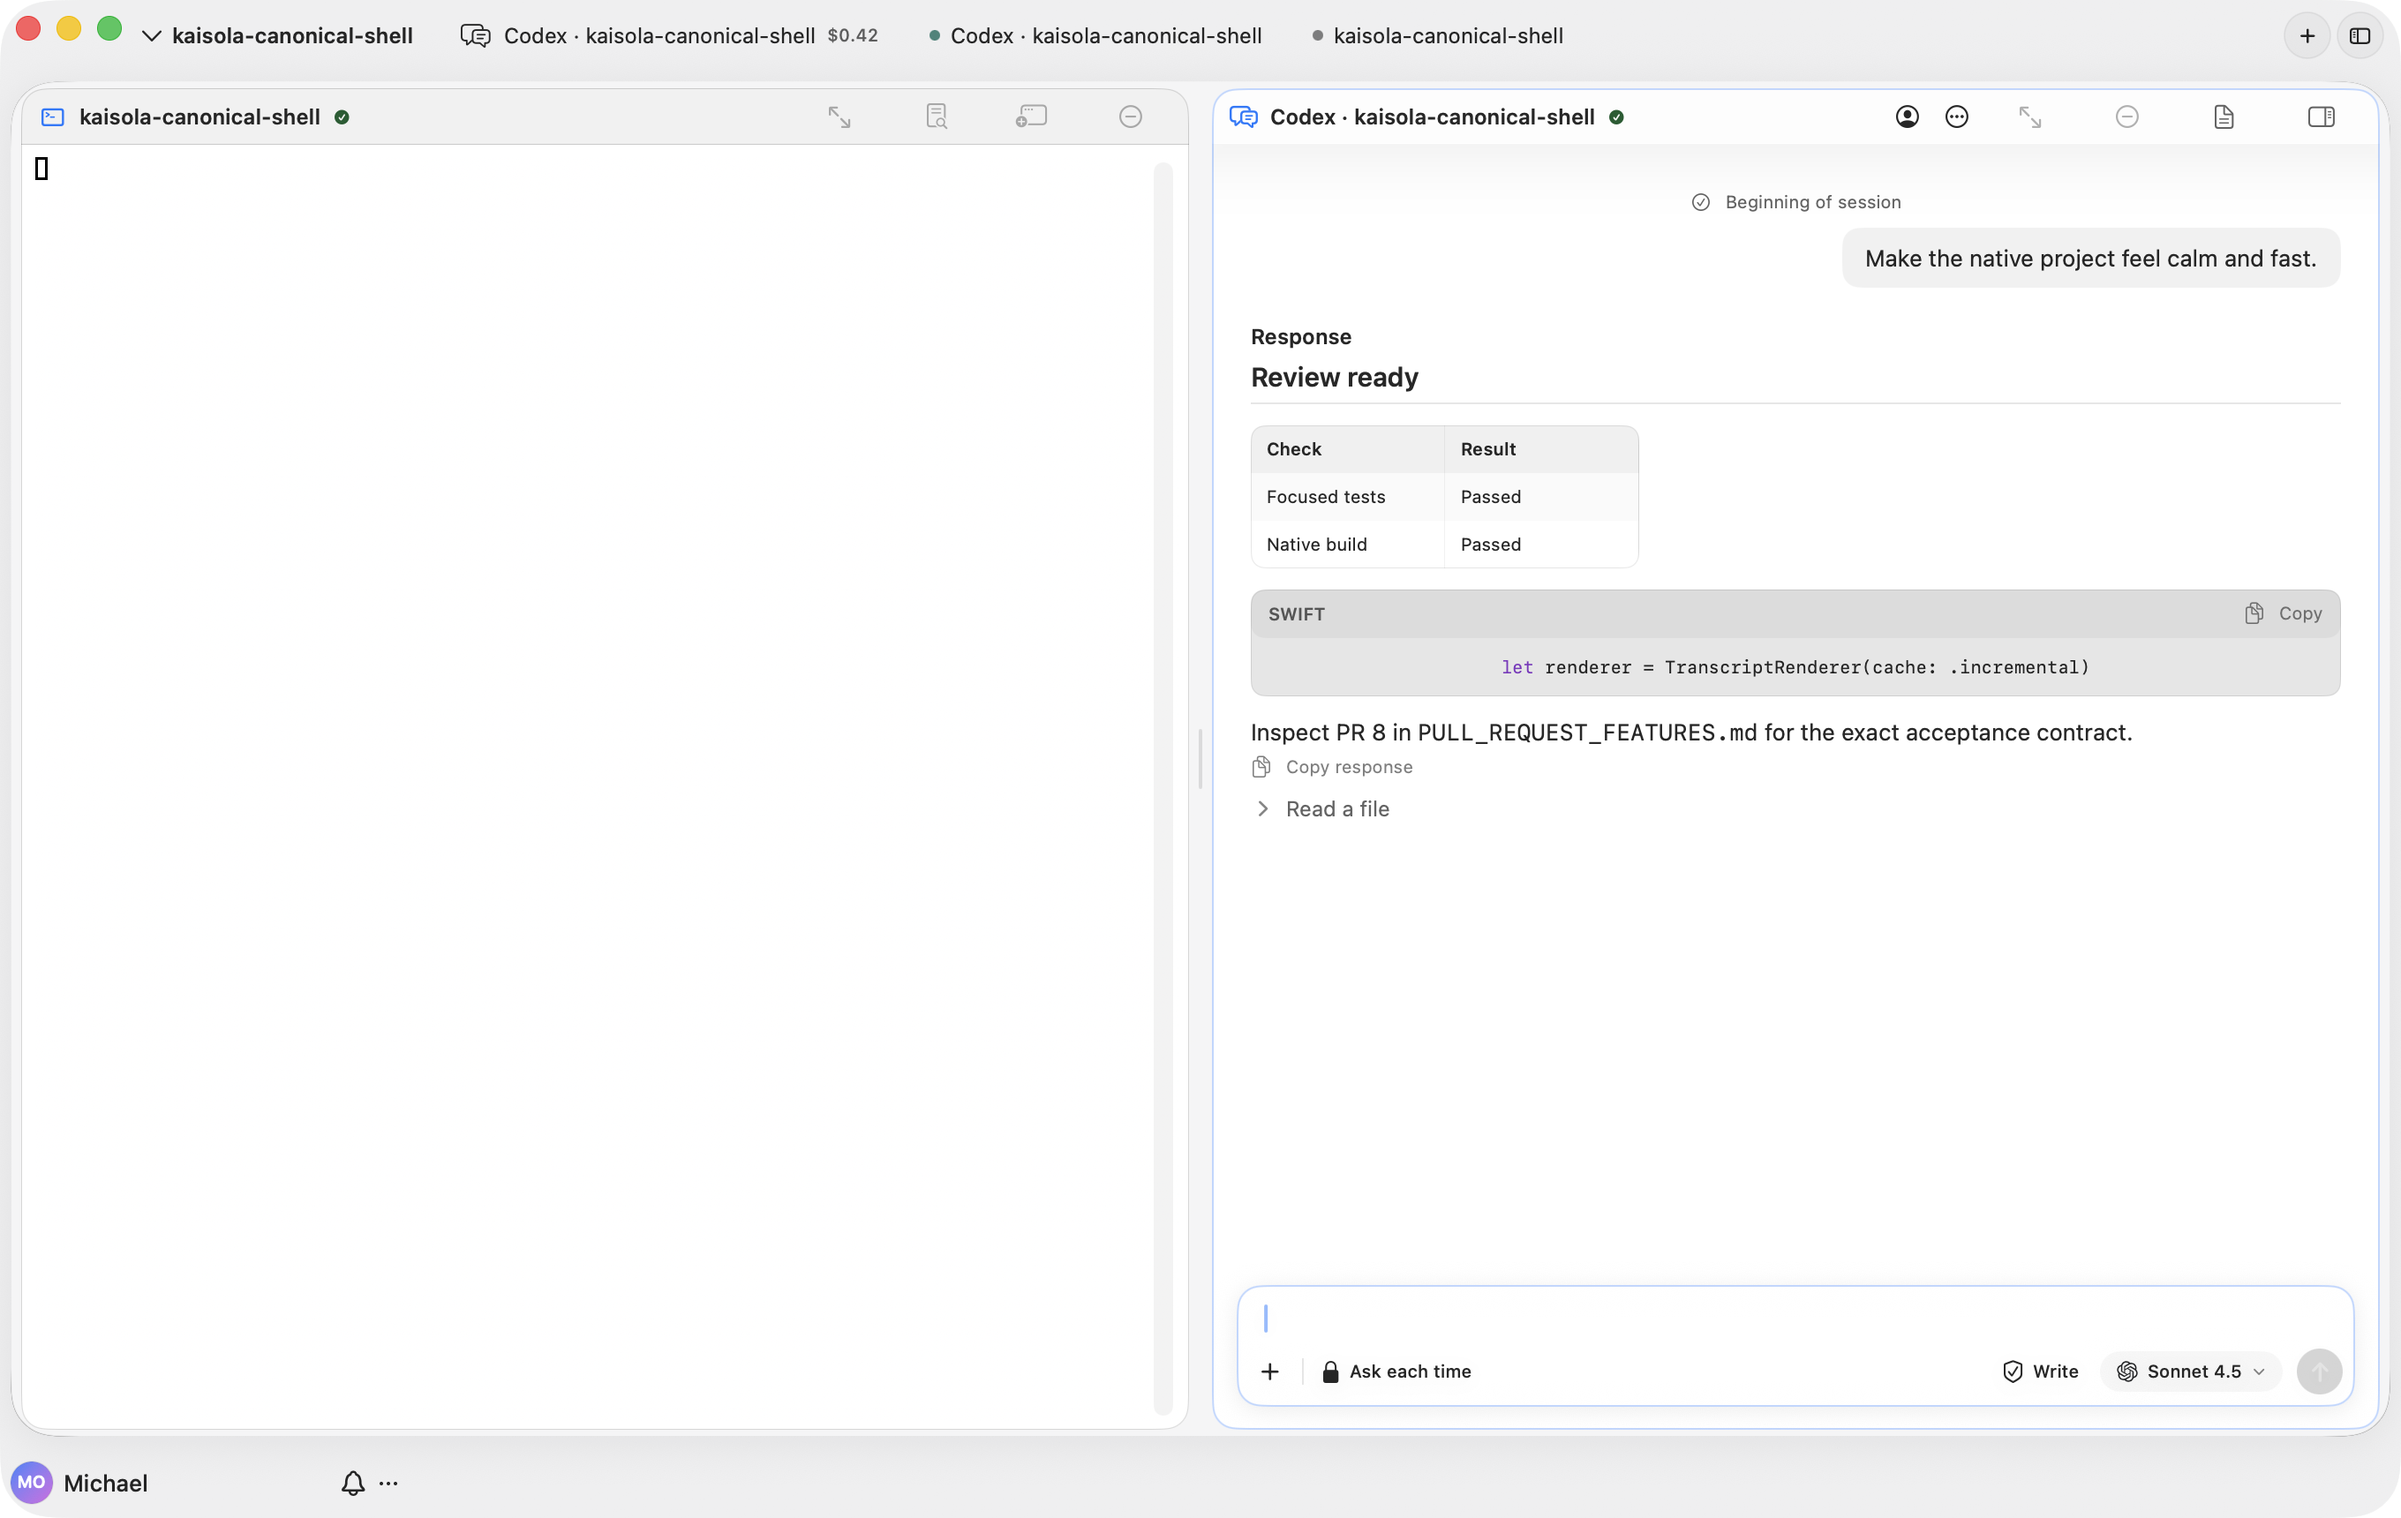
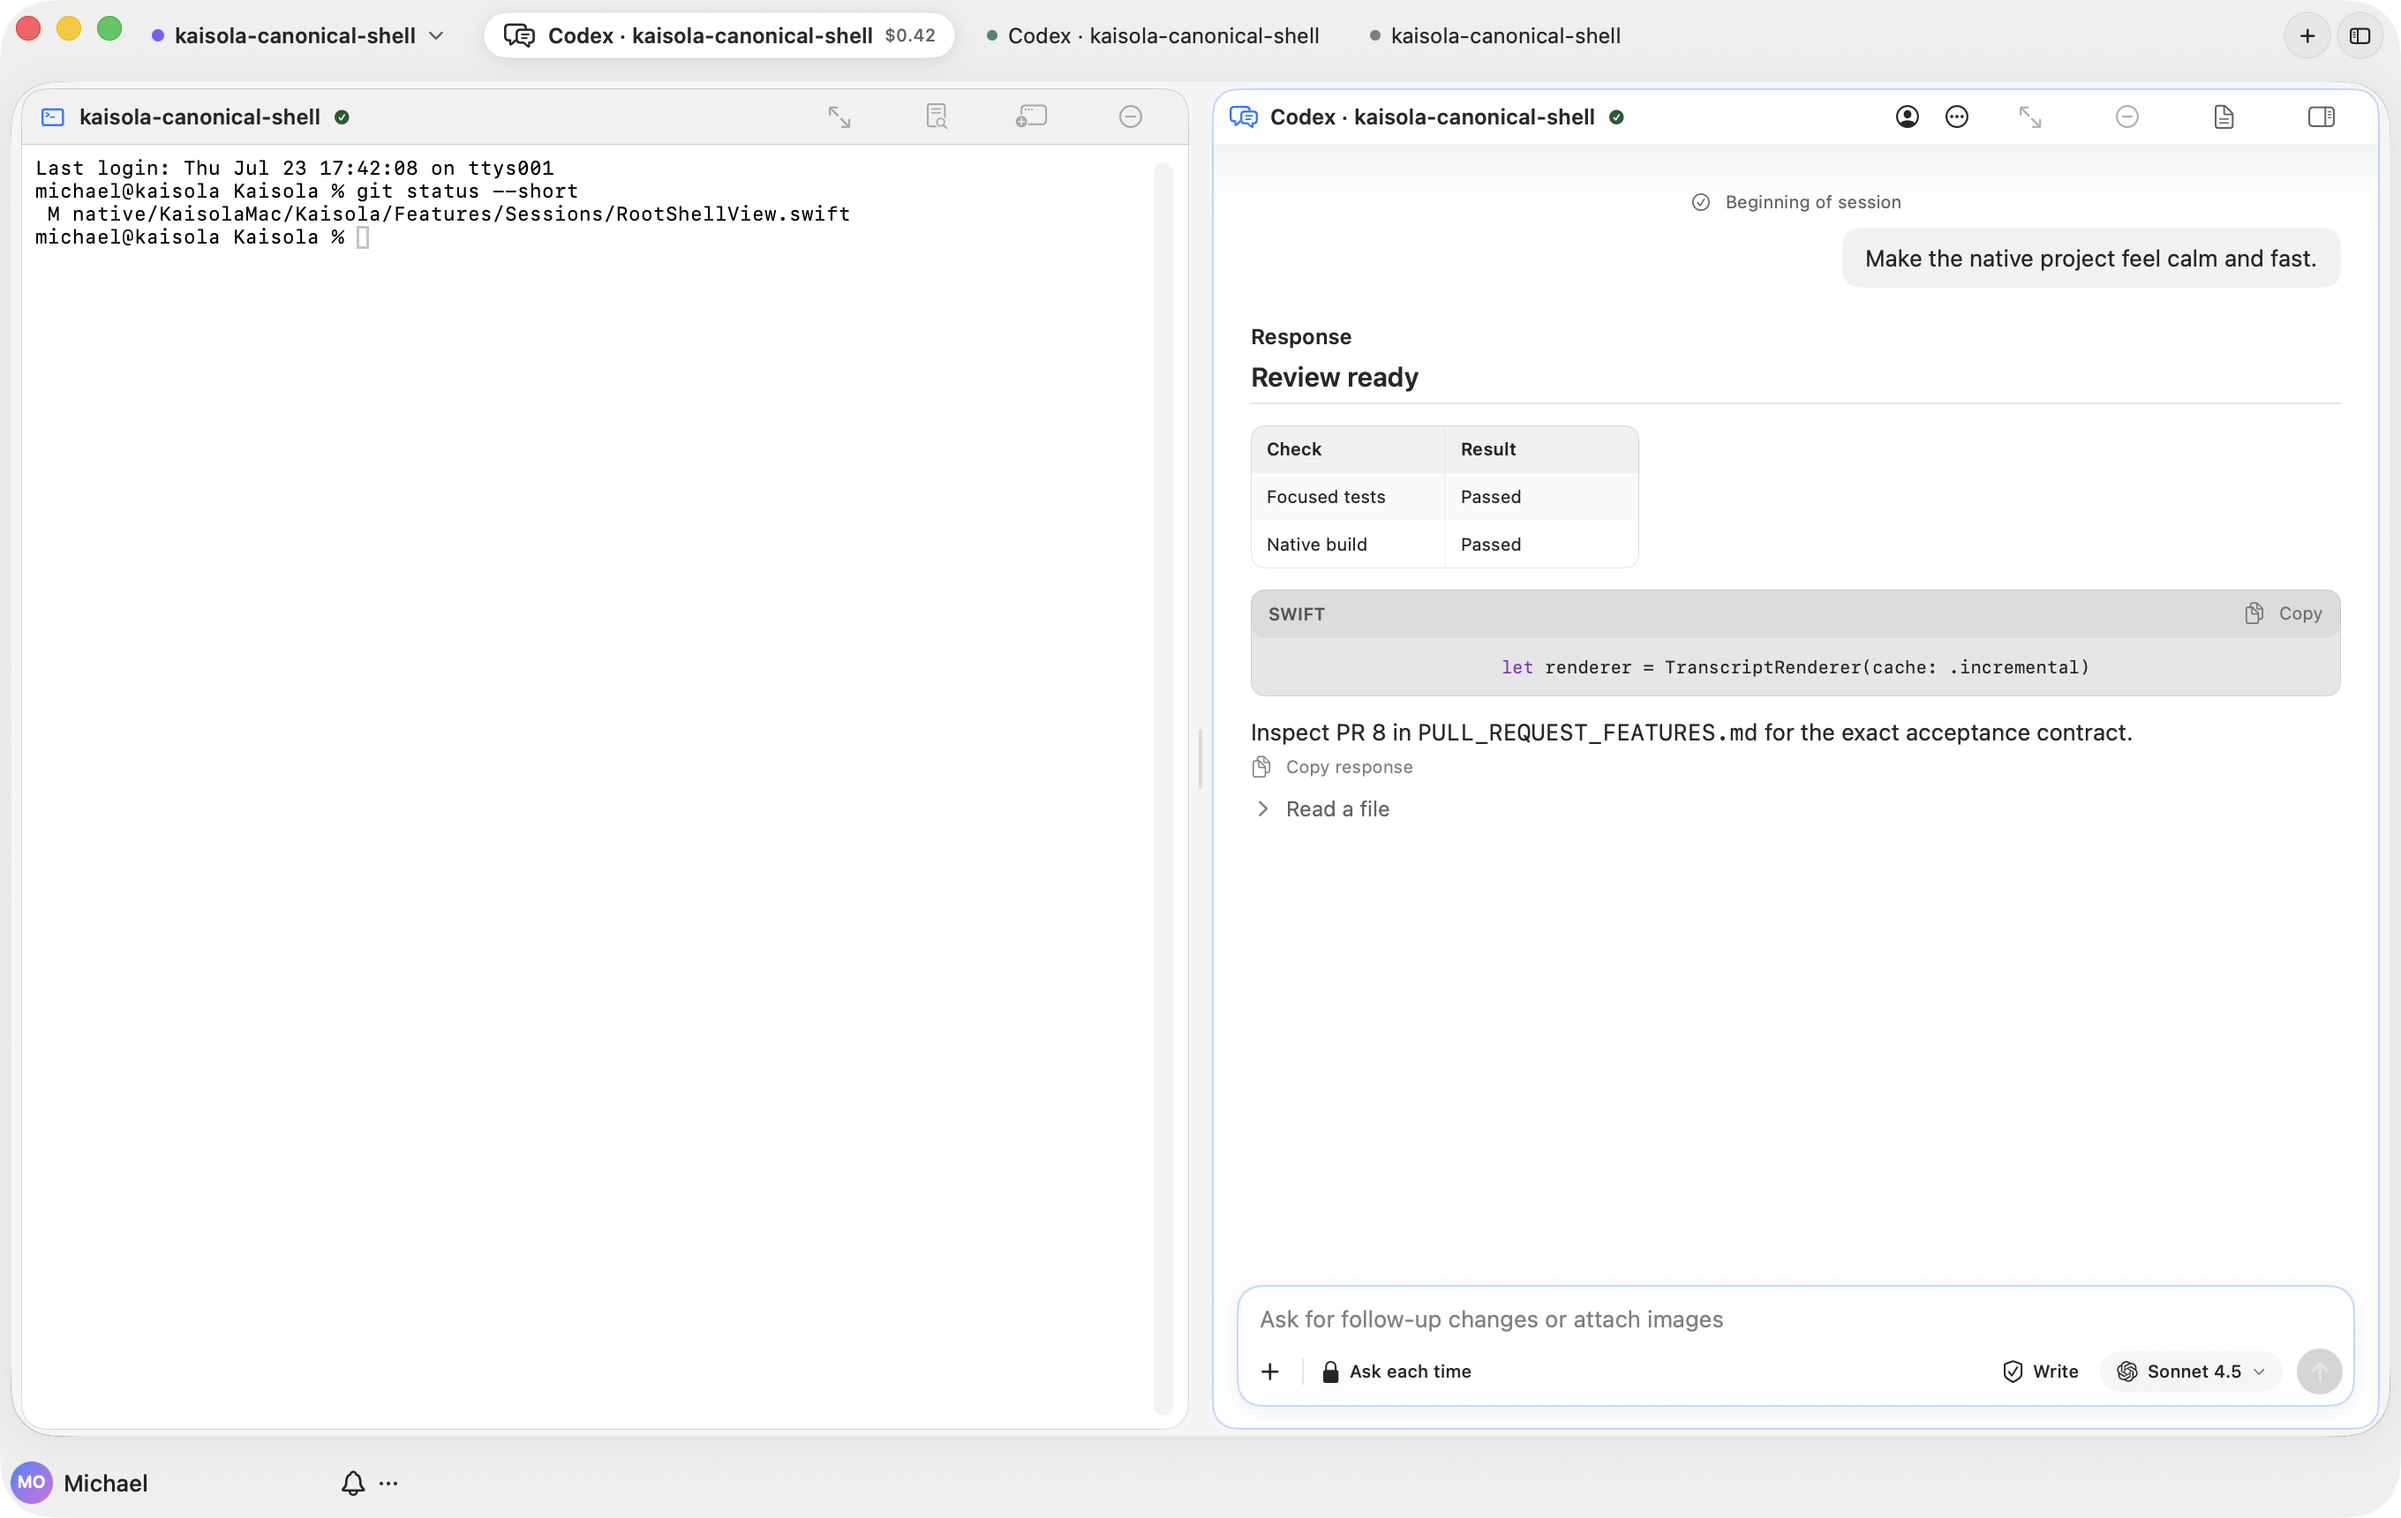
Fix the phantom selected-draft gate and land the preview renders
Two capture rounds exposed real bugs the old strip's resting fills had
been hiding:
- With no draft, 'draft?.id == selectedDraftID' is nil == nil, so a
  phantom selected draft suppressed every real tab's selected state.
- A translucent active-tab plate let the card's own drop shadow bleed
  through from behind, rendering the white card as a grey wash darker
  than the bar. The card now uses the composer's opaque plates (white /
  #2C2C2E) resolved by drawing appearance.

preview-renders/ holds the 12-shot confirmation matrix: top-bar wide
and narrow (pills and capsules, light and dark) and the left-tree card
sidebar + card Files rail + chat (both variants, light and dark), all
captured from the repo's own visual-fixture harness against this
commit's build.

Changed region(s): [[0.0625, 0.0, 0.6562, 0.0308], [0.0312, 0.0924, 0.3438, 0.1541], [0.5312, 0.8628, 0.7188, 0.8936]]

diff --git a/native/KaisolaMac/Kaisola/App/NativeVisualTokens.swift b/native/KaisolaMac/Kaisola/App/NativeVisualTokens.swift
@@ -223,16 +223,25 @@ struct ShellTabCardBackground: View {
                 shape.fill(Color(nsColor: .controlBackgroundColor))
             } else {
                 ZStack {
-                    shape.fill(.ultraThinMaterial)
-                    // A white-led plate over the shared thin material. The bar
-                    // surface's resting coverages (0.55/0.055) vanish at tab
-                    // scale — the light bar ground is already near-white and
-                    // the dark ground swallows a five-percent lift — so the
-                    // active card takes the composer card's posture instead:
-                    // decisively white in light, a clear luminance step in
-                    // dark, while the material keeps a breath of the desktop
-                    // in its edges.
-                    shape.fill(Color.white.opacity(colorScheme == .dark ? 0.12 : 0.92))
+                    // The composer card's opaque plates, not a translucent
+                    // material: a see-through fill lets the card's own black
+                    // drop shadow show through from behind, which turned the
+                    // "white-led card" into a grey wash darker than the bar it
+                    // sits on (measured 231 against a 239 ground). Opaque
+                    // white in light; in dark the `AcpBubble` lift (#2C2C2E),
+                    // the one dark plate already solved to read over any
+                    // backdrop. Resolved by the drawing appearance, the
+                    // `KaisolaInk` idiom, same as `AcpBubble.userFill` above.
+                    shape.fill(Color(nsColor: NSColor(name: nil) { appearance in
+                        appearance.bestMatch(from: [.darkAqua, .aqua]) == .darkAqua
+                            ? NSColor(
+                                srgbRed: 0x2C / 255,
+                                green: 0x2C / 255,
+                                blue: 0x2E / 255,
+                                alpha: 1
+                            )
+                            : .white
+                    }))
                     // Light needs the chrome card's containment hairline: a
                     // white card over a near-white ground has no edge of its
                     // own. Dark's luminance step is the edge, same rule as

diff --git a/native/KaisolaMac/Kaisola/Features/Sessions/RootShellView.swift b/native/KaisolaMac/Kaisola/Features/Sessions/RootShellView.swift
@@ -5699,7 +5699,12 @@ private struct SessionStrip: View {
         let chats = project.map { model.chats(in: $0.id) } ?? []
         let meshes = project.map { model.meshes(in: $0.id) } ?? []
         let recentlyClosed = project.map { model.recentlyClosedSurfaces(in: $0.id) } ?? []
-        let draftSelected = draft?.id == selectedDraftID
+        // `draft != nil` matters: with no draft at all, `draft?.id ==
+        // selectedDraftID` is `nil == nil` — true — and that phantom
+        // "selected draft" suppressed every real tab's selected state. The
+        // old strip's resting fills hid the bug; the revision's active-card
+        // design exposed it.
+        let draftSelected = draft != nil && draft?.id == selectedDraftID
         // A plain HStack, not the old horizontal ScrollView: at narrow widths
         // the tabs compress in place — inactive titles truncate first, the
         // active tab keeps its title longest via `layoutPriority` — which is
